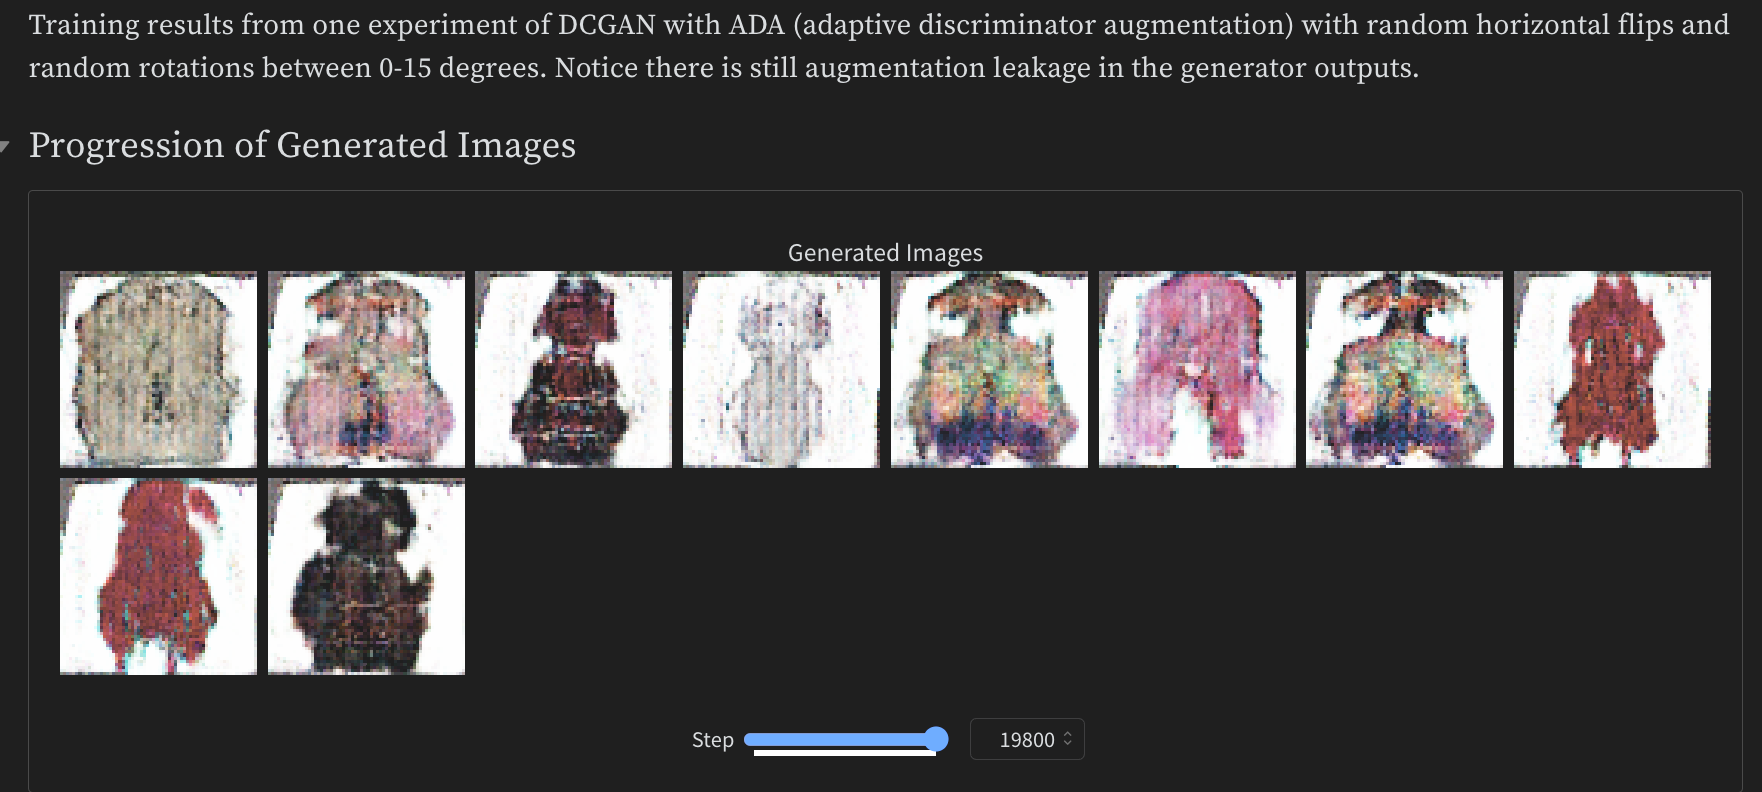
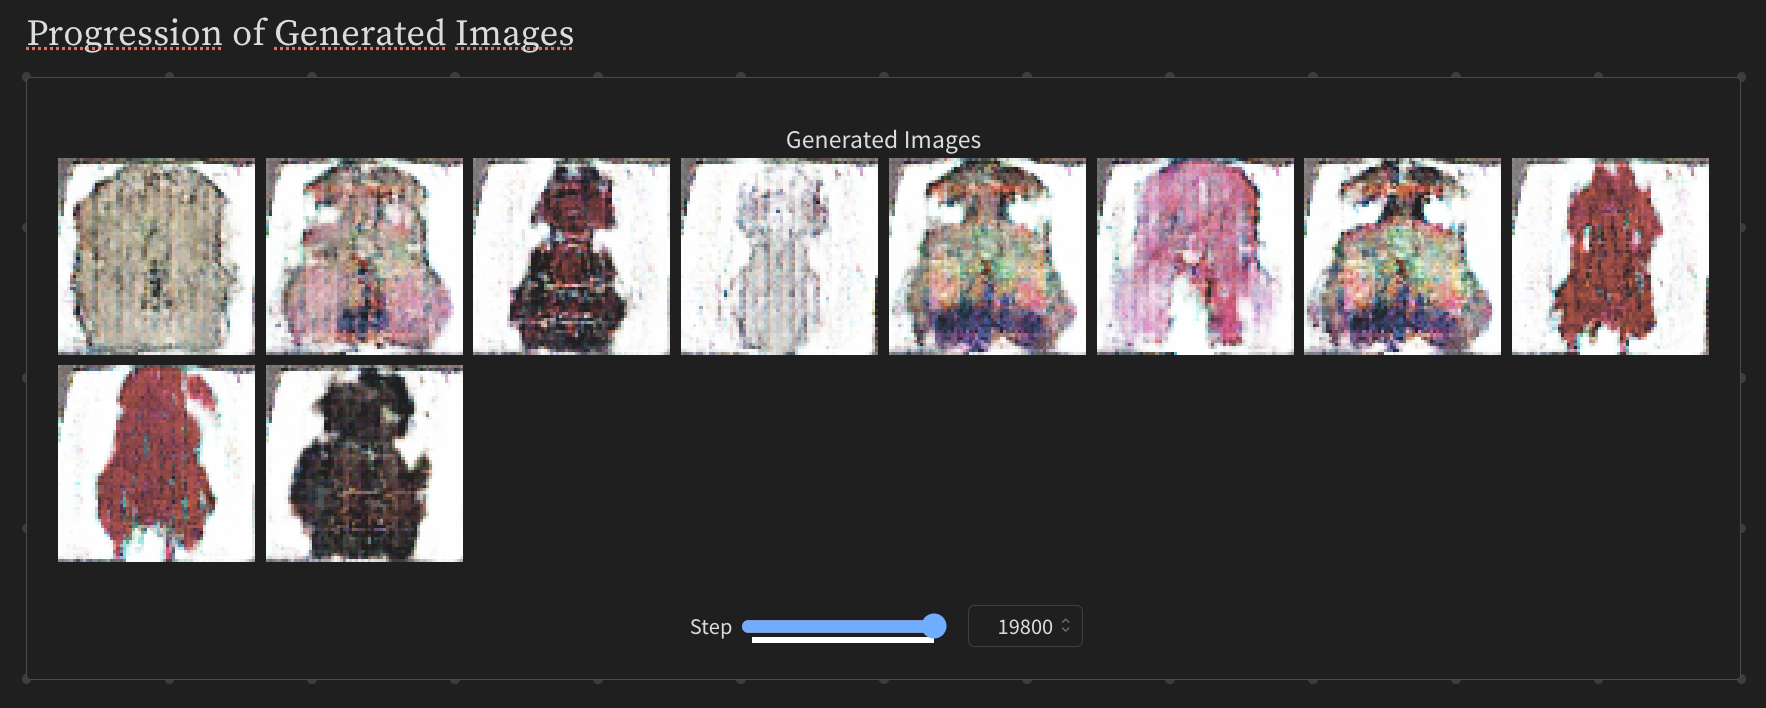
update

diff --git a/README.md b/README.md
@@ -13,9 +13,11 @@ A tiny tiny dataset of 27 avant-garde fashion pieces by Rei Kawakubo hand-traced
 *Raw samples of Rei Kawakubo's avant-garde outfits.*
 
 ## Results
-### Cherry-picked, questionably "creative" results
+Without ADA: model simply overfits to the small dataset and reproduces nearly the same images as the training set. The following results are therefore *with* ADA.
+
+### Cherry-picked, questionably "creative" generations
 <div style="text-align: center;">
-    <img src="images/cherry_picked_creative.png" alt="Alt_text" width="700" />
+    <img src="images/cherry_picked_creative.png" alt="Alt_text" width="500" />
 </div>
 
 ### Slightly more detailed results in wandb report
